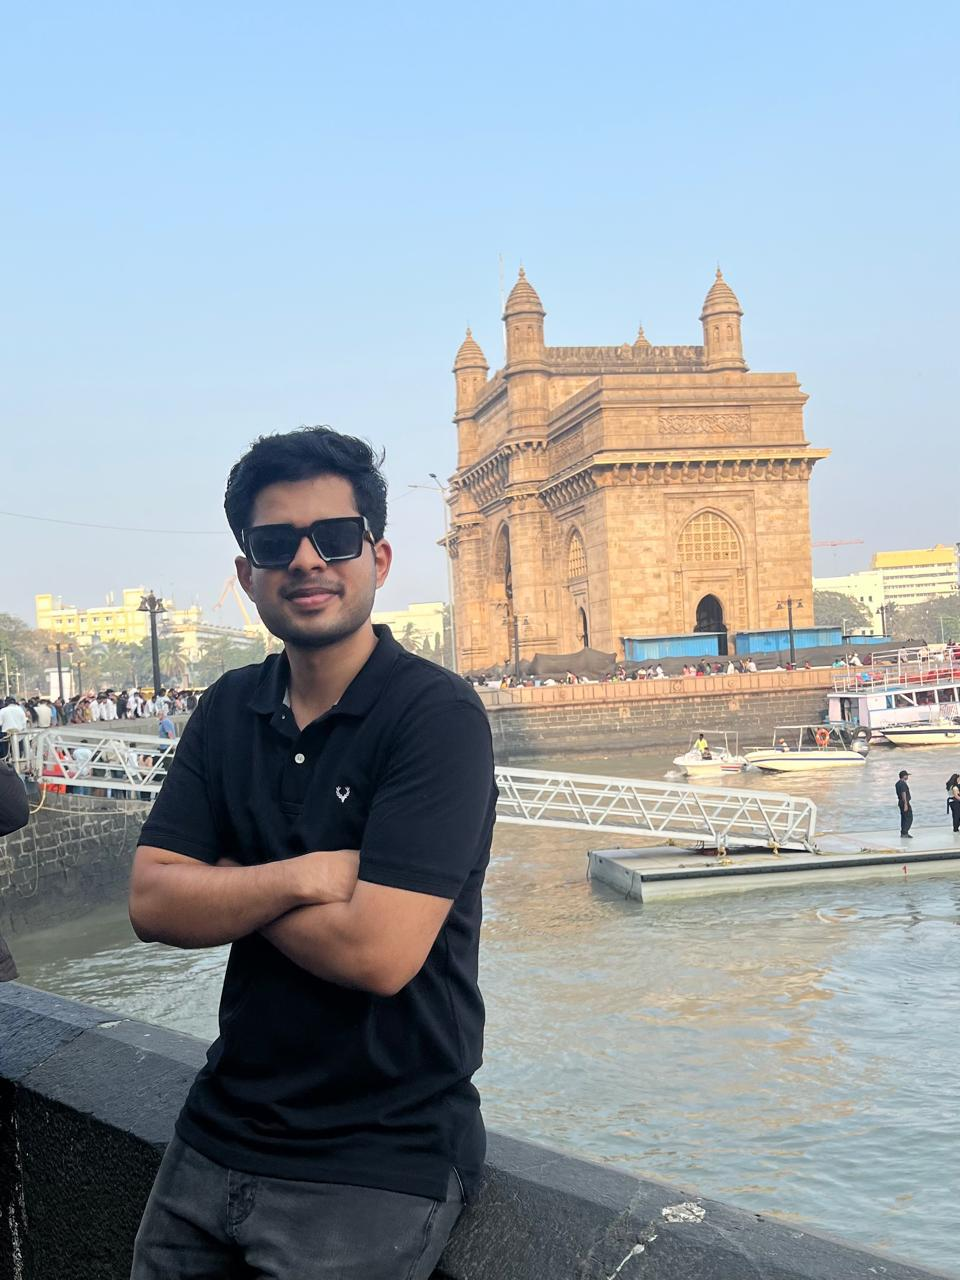
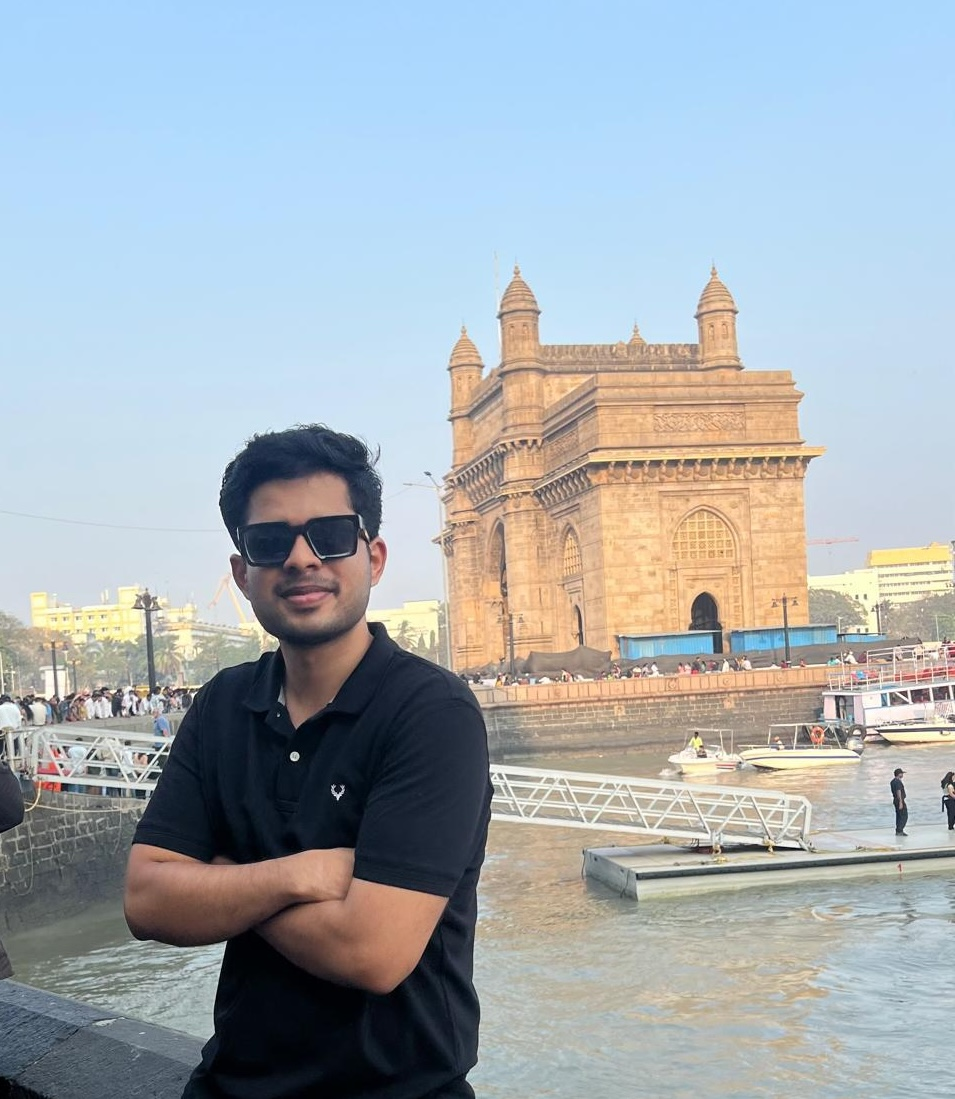
Image optimization

diff --git a/src/Portfolio.jsx b/src/Portfolio.jsx
@@ -2,7 +2,7 @@ import styles from "./Portfolio.module.css";
 import ScrambleText from "./ScrambleText";
 import ScrollArrow from "./ScrollArrow.jsx";
 //import ScrollText from "./ScrollText.jsx";
-import face from "./images/face.jpg";
+import face from "./images/face.webp";
 //import { useState, useEffect } from "react";
 import useWindowSize from "./useWindowFile.jsx";
 
